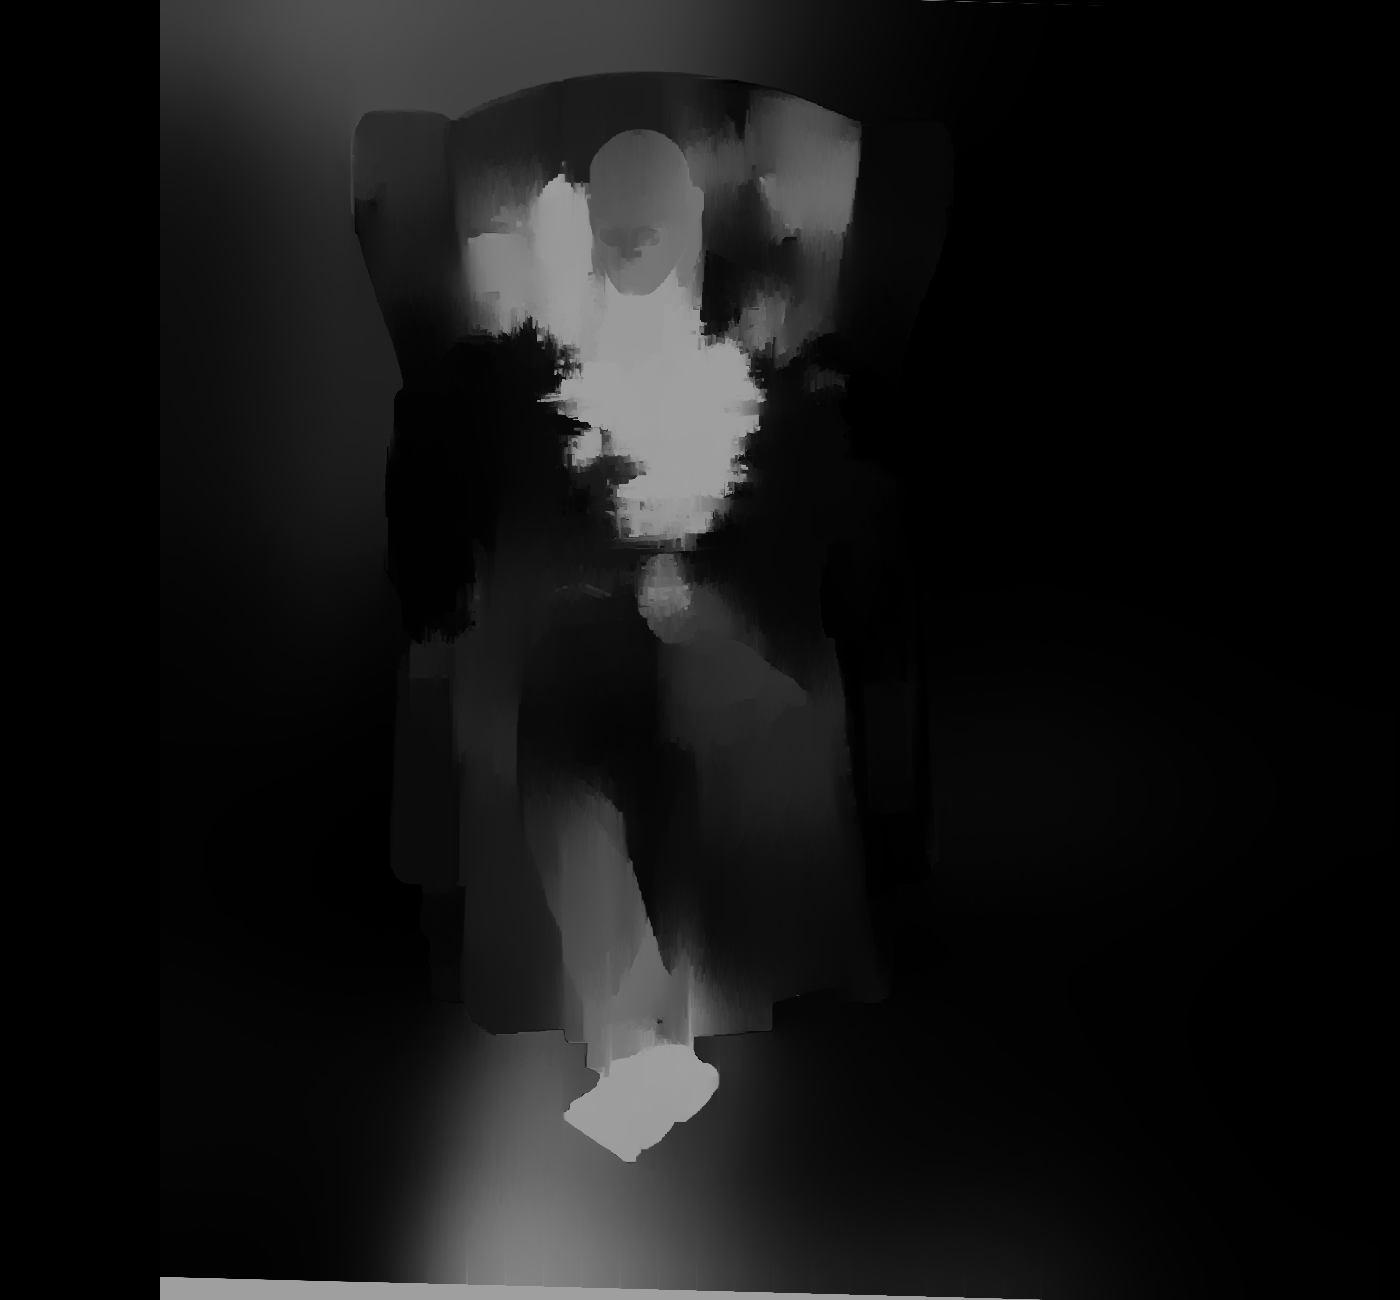
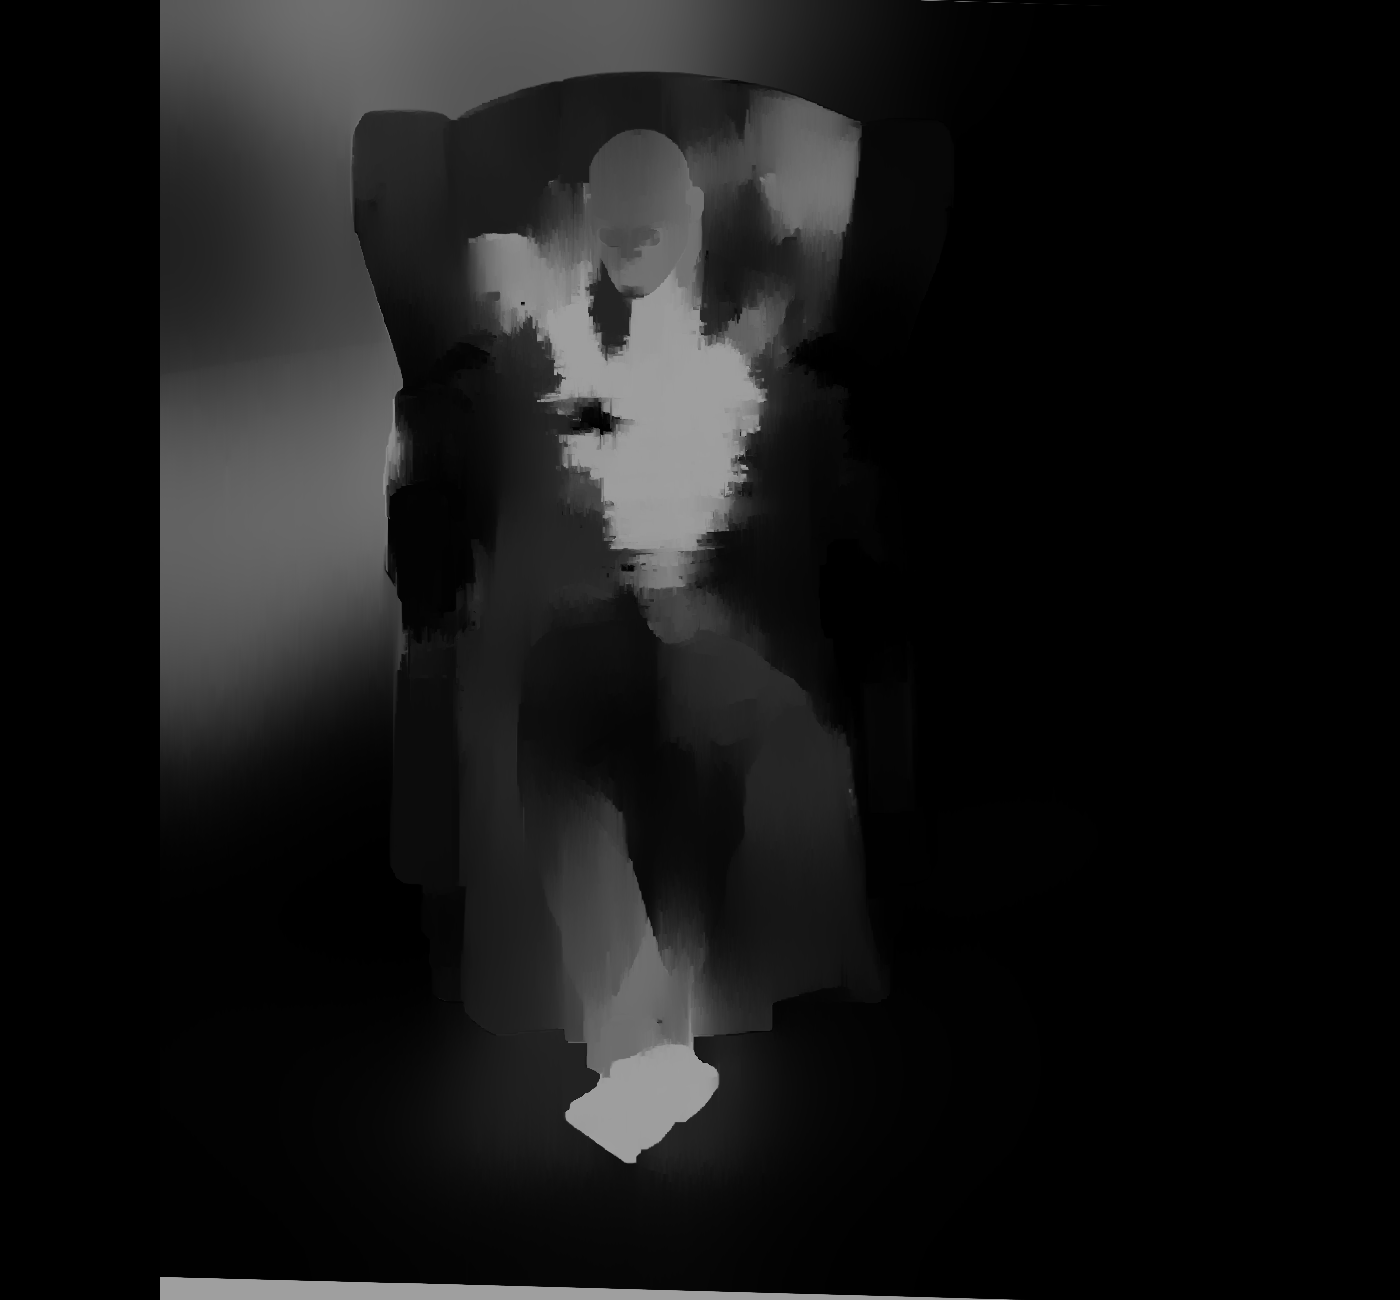
PD3 finished.

diff --git a/Visao/PD3/disparity_filtering.cpp b/Visao/PD3/disparity_filtering.cpp
@@ -165,7 +165,7 @@ void calcula_mapas(Mat l, Mat r, parameters params)
         left_matcher->setP1(24*params.wsize*params.wsize);
         left_matcher->setP2(96*params.wsize*params.wsize);
         left_matcher->setPreFilterCap(63);
-        left_matcher->setMode(StereoSGBM::MODE_SGBM_3WAY);
+        left_matcher->setMode(StereoSGBM::MODE_SGBM);
         wls_filter = createDisparityWLSFilter(left_matcher);
         Ptr<StereoMatcher> right_matcher = createRightMatcher(left_matcher);
 
@@ -212,7 +212,7 @@ void calcula_mapas(Mat l, Mat r, parameters params)
 
     //! [visualization]
     Mat raw_disp_vis;
-    getDisparityVis(left_disp,raw_disp_vis,params.vis_mult);
+    getDisparityVis(left_disp, raw_disp_vis, params.vis_mult);
     namedWindow("raw disparity", WINDOW_AUTOSIZE);
     imshow("raw disparity", raw_disp_vis);
     Mat disparity = left_disp.clone();
@@ -357,7 +357,7 @@ void calcula_morpheus(parameters params)
 
 void estima_medidas_morpheus(Mat Q, parameters pars)
 {
-    Mat img = imread("morpheus_depth.png", -1);
+    Mat img = imread("morpheu_depth.png", -1);
     namedWindow("Req3", WINDOW_NORMAL);
     resizeWindow("Req3", 1000,  1000);
     while(1) {
@@ -365,26 +365,41 @@ void estima_medidas_morpheus(Mat Q, parameters pars)
         imshow( "Req3", img);
         if((char)waitKey(55) == 27) break;
     }
-    // for(auto v : pars.cliques) cout << v.first << " " << v.second << endl;
-    Mat pt_1(4, 1, CV_64FC1), pt_2(4, 1, CV_64FC1);
-    
+    Mat out;
+    reprojectImageTo3D(img, out, Q);
+    // Mat pt_1(4, 1, CV_64FC1), pt_2(4, 1, CV_64FC1);
+    // for(int i = 0; i < pars.cliques.size(); i+=2)
+    // {
+    //     pt_1.at<double>(0,0) = (double)pars.cliques[i].first;
+    //     pt_1.at<double>(1,0) = (double)pars.cliques[i].second;
+    //     pt_1.at<double>(2,0) = img.at<double>(pars.cliques[i].second, pars.cliques[i].first);
+    //     pt_1.at<double>(3,0) = 1;
+
+    //     pt_2.at<double>(0,0) = (double)pars.cliques[i+1].first;
+    //     pt_2.at<double>(1,0) = (double)pars.cliques[i+1].second;
+    //     pt_2.at<double>(2,0) = img.at<double>(pars.cliques[i+1].second, pars.cliques[i+1].first);
+    //     pt_2.at<double>(3,0) = 1;
+    //     pt_1 = Q * pt_1;
+    //     pt_2 = Q * pt_2;
+    //     pt_1 = pt_1 / pt_1.at<double>(3, 0);
+    //     pt_2 = pt_2 / pt_2.at<double>(3, 0);
+    //     Mat dst_1, dst_2;
+    //     pt_1.rowRange(0, 3).copyTo(dst_1);
+    //     pt_2.rowRange(0, 3).copyTo(dst_2);
+    //     cout << dst_1 << endl << dst_2 << endl;
+
+    //     if(i == 0) cout << "largura em mm(?): " << norm(dst_1, dst_2, NORM_L2) << endl;
+    //     else if(i == 2) cout << "altura em mm(?): " << norm(dst_1, dst_2, NORM_L2) << endl;
+    //     else if(i == 4) cout << "profundidade em mm(?): " << norm(dst_1, dst_2, NORM_L2) << endl;
+    // }
+
     for(int i = 0; i < pars.cliques.size(); i+=2)
     {
-        pt_1.at<double>(0,0) = (double)pars.cliques[i].first;
-        pt_1.at<double>(1,0) = (double)pars.cliques[i].second;
-        pt_1.at<double>(2,0) = img.at<double>(Point(pars.cliques[i].second, pars.cliques[i].first));
-        pt_1.at<double>(3,0) = 1;
-
-        pt_2.at<double>(0,0) = (double)pars.cliques[i+1].first;
-        pt_2.at<double>(1,0) = (double)pars.cliques[i+1].second;
-        pt_2.at<double>(2,0) = img.at<double>(Point(pars.cliques[i].second, pars.cliques[i].first));
-        pt_2.at<double>(3,0) = 1;
-        pt_1 = Q * pt_1;
-        pt_2 = Q * pt_2;
-
-        if(i == 0) cout << "largura em mm(?): " << norm(pt_1, pt_2, NORM_L2) << endl;
-        else if(i == 2) cout << "altura em mm(?): " << norm(pt_1, pt_2, NORM_L2) << endl;
-        else if(i == 4) cout << "profundidade em mm(?): " << norm(pt_1, pt_2, NORM_L2) << endl;
+        Vec3b pt1 = out.at<Vec3b>(pars.cliques[i].second, pars.cliques[i].first);
+        Vec3b pt2 = out.at<Vec3b>(pars.cliques[i+1].second, pars.cliques[i+1].first);
+        if(i == 0) cout << "largura em mm: " << norm(pt1, pt2, NORM_L2) << endl;
+        else if(i == 2) cout << "altura em mm: " << norm(pt1, pt2, NORM_L2) << endl;
+        else if(i == 4) cout << "profundidade em mm: " << norm(pt1, pt2, NORM_L2) << endl;
     }
 }
 
@@ -408,7 +423,7 @@ void cria_mapas_morpheus(Mat left_2, Mat right_2, parameters params)
     left_matcher->setP1(24*params.wsize*params.wsize);
     left_matcher->setP2(96*params.wsize*params.wsize);
     left_matcher->setPreFilterCap(63);
-    left_matcher->setMode(StereoSGBM::MODE_SGBM_3WAY);
+    left_matcher->setMode(StereoSGBM::MODE_SGBM);
     wls_filter = createDisparityWLSFilter(left_matcher);
     Ptr<StereoMatcher> right_matcher = createRightMatcher(left_matcher);
 
@@ -432,6 +447,7 @@ void cria_mapas_morpheus(Mat left_2, Mat right_2, parameters params)
 
     //! [visualization]
     Mat raw_disp_vis;
+
     getDisparityVis(left_disp,raw_disp_vis,params.vis_mult);
     namedWindow("raw disparity", WINDOW_AUTOSIZE);
     imshow("raw disparity", raw_disp_vis);
@@ -445,6 +461,7 @@ void cria_mapas_morpheus(Mat left_2, Mat right_2, parameters params)
     waitKey(0);
 
     Mat filtered_disp_vis;
+    imwrite("estima_morpheus.png", filtered_disp);
     getDisparityVis(filtered_disp, filtered_disp_vis, params.vis_mult);
     namedWindow("Mapa de profundidade", WINDOW_AUTOSIZE);
     imshow("Mapa de profundidade", filtered_disp_vis);
